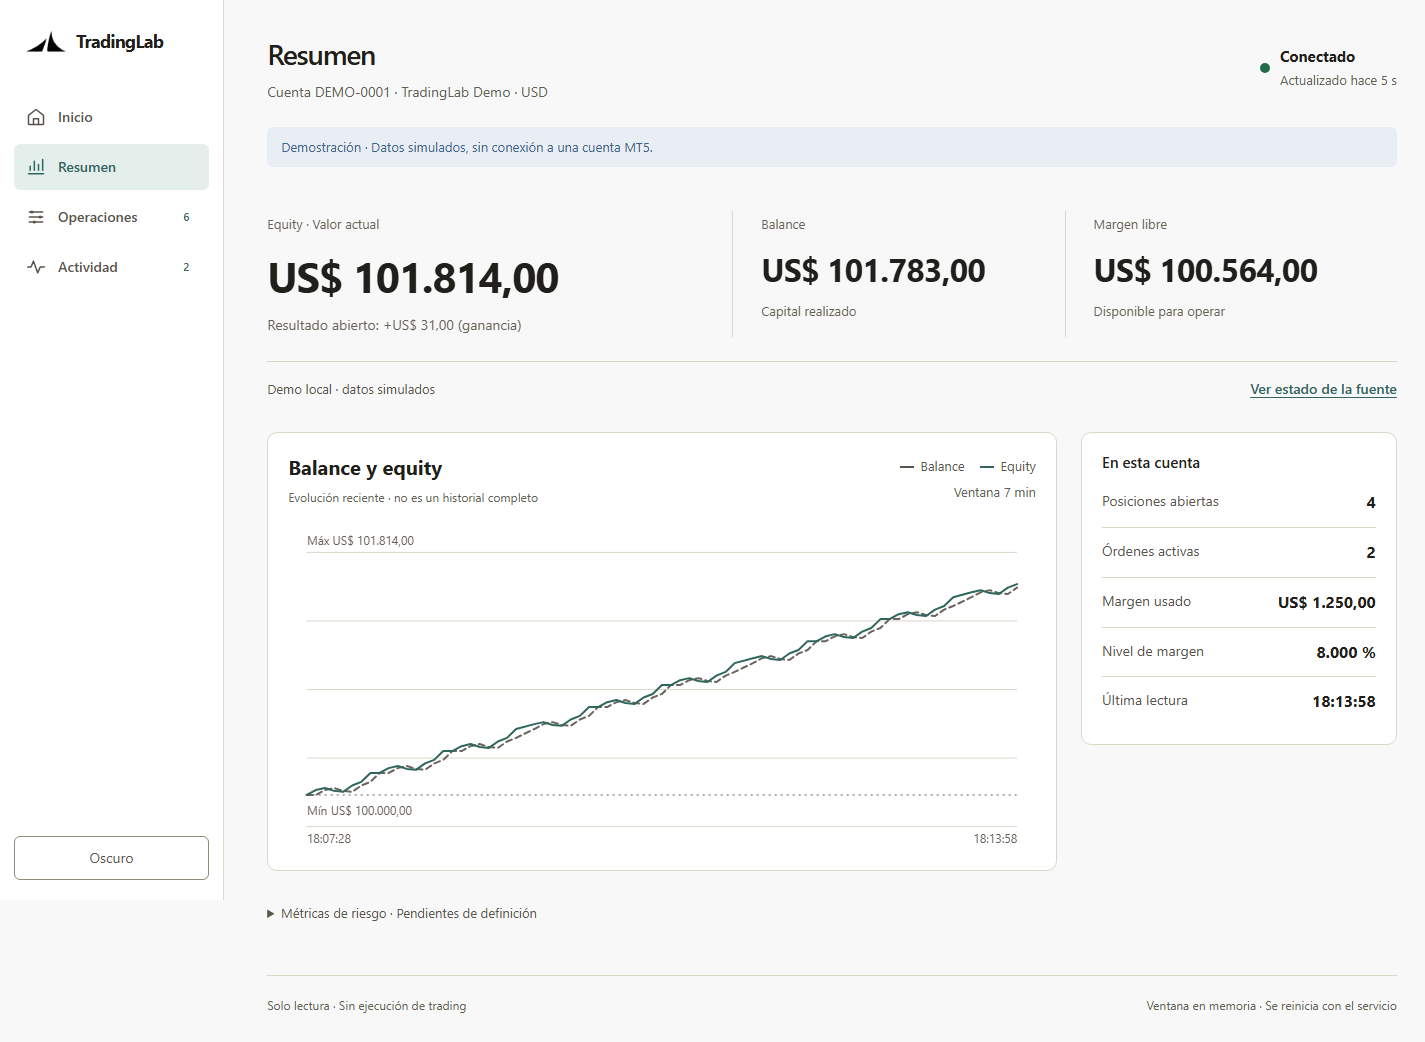
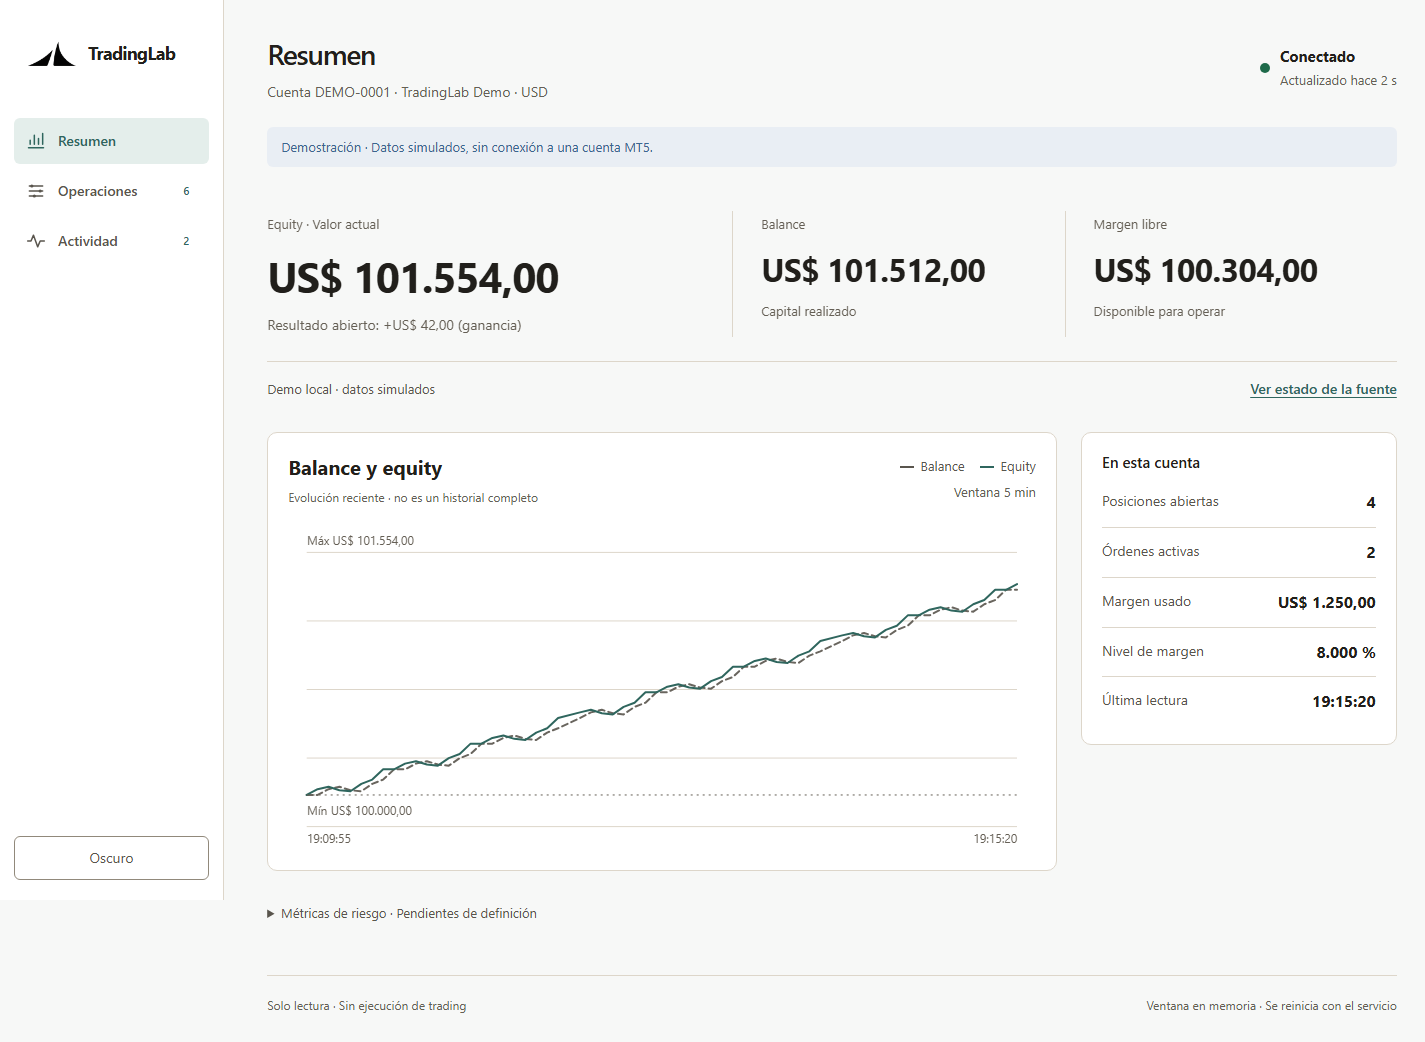
fix: finalize public and dashboard brand treatment

diff --git a/src/tradinglab/dashboard/static/styles.css b/src/tradinglab/dashboard/static/styles.css
@@ -26,7 +26,7 @@
   --radius-lg: 10px;
   --font-ui: -apple-system, BlinkMacSystemFont, "Segoe UI", Roboto, "Helvetica Neue", Arial, sans-serif;
   --font-mono: ui-monospace, SFMono-Regular, Menlo, Consolas, monospace;
-  --brand-logo: url("/assets/logo_black.png");
+  --brand-logo: url("/assets/tradinglab-apple-touch-icon-black.png");
   font-family: var(--font-ui);
   background: var(--canvas);
   color: var(--ink);
@@ -34,9 +34,9 @@
 }
 
 :root[data-theme="light"] { color-scheme: light; }
-:root[data-theme="dark"] { color-scheme: dark; --brand-logo: url("/assets/logo_white.png"); }
+:root[data-theme="dark"] { color-scheme: dark; --brand-logo: url("/assets/tradinglab-apple-touch-icon-white.png"); }
 @media (prefers-color-scheme: dark) {
-  :root:not([data-theme]) { --brand-logo: url("/assets/logo_white.png"); }
+  :root:not([data-theme]) { --brand-logo: url("/assets/tradinglab-apple-touch-icon-white.png"); }
 }
 
 * { box-sizing: border-box; }
@@ -90,7 +90,7 @@ button, select { min-height: 44px; }
 .brand { display: flex; align-items: center; gap: 10px; text-decoration: none; color: var(--ink); white-space: nowrap; }
 .site-nav .brand { padding: 0 12px; }
 .brand strong { font-size: 1.125rem; letter-spacing: -0.04em; }
-.brand-mark { display: inline-block; flex: none; width: 40px; height: 25px; background: var(--brand-logo) center / contain no-repeat; }
+.brand-mark { display: inline-block; flex: none; width: 52px; height: 52px; background: var(--brand-logo) center / contain no-repeat; }
 .site-nav-links { display: flex; flex: 1; flex-direction: column; align-items: stretch; gap: 4px; }
 .site-nav-links a, .view-tab { display: flex; align-items: center; gap: 12px; width: 100%; min-height: 46px; padding: 10px 12px; border: 0; border-radius: var(--radius-md); color: var(--ink-2); text-decoration: none; text-align: left; font: inherit; font-size: 0.875rem; font-weight: 500; background: transparent; cursor: pointer; }
 .site-nav-links a:hover, .view-tab:hover { color: var(--ink); background: var(--raised); }
@@ -398,7 +398,7 @@ summary { cursor: pointer; min-height: 44px; padding: 12px 0; }
   .shell > main { padding: 22px 16px 0; }
   .site-nav { margin: 0; padding: 12px 16px; }
   .brand strong { font-size: 1.0625rem; }
-  .brand-mark { width: 35px; height: 22px; }
+  .brand-mark { width: 44px; height: 44px; }
   .site-nav-links { gap: 0; padding-inline: 4px; }
   .site-nav-links > a, .site-nav-links .view-tab { padding: 4px 0; font-size: 0.75rem; }
   .site-nav .theme-toggle { inset: 14px 16px auto auto; min-width: 62px; }

diff --git a/src/tradinglab/dashboard/static/theme.js b/src/tradinglab/dashboard/static/theme.js
@@ -26,38 +26,20 @@
     return window.matchMedia("(prefers-color-scheme: dark)").matches ? "dark" : "light";
   }
 
-  // El logo horizontal completo queda diminuto a 16 px. Para la pestaña se usa
-  // su motivo central, recortado simétricamente y sin deformar el PNG original.
-  function prepareFavicon(icon) {
-    if (icon.dataset.squareReady || icon.dataset.squareLoading) return;
-    icon.dataset.squareLoading = "true";
-    const source = new Image();
-    source.onload = () => {
-      const canvas = document.createElement("canvas");
-      canvas.width = 64;
-      canvas.height = 64;
-      const sourceWidth = source.naturalWidth * 0.7;
-      const sourceX = (source.naturalWidth - sourceWidth) / 2;
-      const width = 60;
-      const height = width * source.naturalHeight / sourceWidth;
-      canvas.getContext("2d").drawImage(
-        source, sourceX, 0, sourceWidth, source.naturalHeight,
-        (64 - width) / 2, (64 - height) / 2, width, height,
-      );
-      icon.href = canvas.toDataURL("image/png");
-      icon.dataset.squareReady = "true";
-      delete icon.dataset.squareLoading;
-    };
-    source.onerror = () => { delete icon.dataset.squareLoading; };
-    source.src = icon.href;
-  }
-
   function updateButtons() {
     const current = effectiveTheme();
-    document.querySelectorAll("[data-theme-icon]").forEach((icon) => {
-      icon.media = icon.dataset.themeIcon === current ? "all" : "not all";
-      prepareFavicon(icon);
-    });
+    const icon = document.querySelector("[data-theme-icon]");
+    if (icon) {
+      // La pestaña pertenece al navegador: su contraste no depende del tema de la app.
+      const browserDark = window.matchMedia("(prefers-color-scheme: dark)").matches;
+      const iconTheme = browserDark ? "dark" : "light";
+      if (icon.dataset.themeIcon !== iconTheme) {
+        icon.href = browserDark
+          ? "/assets/favicon-white.ico?v=fitted-1"
+          : "/assets/favicon-black.ico?v=fitted-1";
+        icon.dataset.themeIcon = iconTheme;
+      }
+    }
     document.querySelectorAll("[data-theme-toggle]").forEach((button) => {
       button.hidden = false;
       button.textContent = current === "dark" ? "Claro" : "Oscuro";

diff --git a/src/tradinglab/dashboard/static/dashboard.html b/src/tradinglab/dashboard/static/dashboard.html
@@ -5,8 +5,7 @@
     <meta name="viewport" content="width=device-width, initial-scale=1">
     <meta name="color-scheme" content="dark light">
     <title>Panel de la cuenta · TradingLab</title>
-    <link rel="icon" type="image/png" href="/assets/logo_black.png" media="(prefers-color-scheme: light)" data-theme-icon="light">
-    <link rel="icon" type="image/png" href="/assets/logo_white.png" media="(prefers-color-scheme: dark)" data-theme-icon="dark">
+    <link rel="icon" type="image/x-icon" href="/assets/favicon-black.ico?v=fitted-1" data-theme-icon="light">
     <script src="/assets/theme.js"></script>
     <link rel="stylesheet" href="/assets/styles.css">
     <script src="/assets/app.js" defer></script>

diff --git a/src/tradinglab/dashboard/static/index.html b/src/tradinglab/dashboard/static/index.html
@@ -5,8 +5,7 @@
     <meta name="viewport" content="width=device-width, initial-scale=1">
     <meta name="color-scheme" content="dark light">
     <title>TradingLab · Inicio</title>
-    <link rel="icon" type="image/png" href="/assets/logo_black.png" media="(prefers-color-scheme: light)" data-theme-icon="light">
-    <link rel="icon" type="image/png" href="/assets/logo_white.png" media="(prefers-color-scheme: dark)" data-theme-icon="dark">
+    <link rel="icon" type="image/x-icon" href="/assets/favicon-black.ico?v=fitted-1" data-theme-icon="light">
     <script src="/assets/theme.js"></script>
     <link rel="stylesheet" href="/assets/styles.css">
   </head>

diff --git a/src/tradinglab/dashboard/web.py b/src/tradinglab/dashboard/web.py
@@ -23,6 +23,19 @@ STATIC_ROUTES = {
     "/assets/nav-icons.svg": ("nav-icons.svg", "image/svg+xml"),
     "/assets/logo_black.png": ("logo_black.png", "image/png"),
     "/assets/logo_white.png": ("logo_white.png", "image/png"),
+    "/assets/favicon-black.ico": ("favicon-black.ico", "image/x-icon"),
+    "/assets/favicon-white.ico": ("favicon-white.ico", "image/x-icon"),
+    "/favicon.ico": ("favicon-black.ico", "image/x-icon"),
+    "/assets/tradinglab-favicon-black-32.png": ("tradinglab-favicon-black-32.png", "image/png"),
+    "/assets/tradinglab-favicon-white-32.png": ("tradinglab-favicon-white-32.png", "image/png"),
+    "/assets/tradinglab-apple-touch-icon-black.png": (
+        "tradinglab-apple-touch-icon-black.png",
+        "image/png",
+    ),
+    "/assets/tradinglab-apple-touch-icon-white.png": (
+        "tradinglab-apple-touch-icon-white.png",
+        "image/png",
+    ),
 }
 
 _STATIC_CACHE: dict[str, tuple[int, int, bytes, str]] = {}

diff --git a/tests/unit/test_live_dashboard.py b/tests/unit/test_live_dashboard.py
@@ -359,6 +359,12 @@ class LiveDashboardTest(unittest.TestCase):
             for asset, content_type in (
                 ("logo_black.png", "image/png"),
                 ("logo_white.png", "image/png"),
+                ("favicon-black.ico", "image/x-icon"),
+                ("favicon-white.ico", "image/x-icon"),
+                ("tradinglab-favicon-black-32.png", "image/png"),
+                ("tradinglab-favicon-white-32.png", "image/png"),
+                ("tradinglab-apple-touch-icon-black.png", "image/png"),
+                ("tradinglab-apple-touch-icon-white.png", "image/png"),
                 ("nav-icons.svg", "image/svg+xml"),
             ):
                 with urllib.request.urlopen(f"{base_url}/assets/{asset}", timeout=2) as response:

diff --git a/docs/development/adaptive-navigation-visual-analysis.md b/docs/development/adaptive-navigation-visual-analysis.md
@@ -10,7 +10,7 @@ Las referencias provistas son [escritorio](../idea-visual-tabs.png) y
 jerarquía, no como definición de colores, métricas o funciones. La paleta clara y
 oscura suave del piloto se conserva.
 
-Vistas del prototipo en modo demo: [escritorio claro](../adaptive-navigation-desktop.png)
+Vistas del prototipo en modo demo: [portada](../adaptive-navigation-home.png), [escritorio claro](../adaptive-navigation-desktop.png)
 y [móvil oscuro](../adaptive-navigation-mobile.png). Son capturas de ejemplo;
 los importes simulados cambian con las lecturas.
 
@@ -32,9 +32,17 @@ es una página de presentación con encabezado propio y una entrada al panel.
 
 Los logos provistos en `docs/logo_black.png` y `docs/logo_white.png` se copiaron
 sin alterar a `src/tradinglab/dashboard/static/` para servirlos localmente. Los
-originales del usuario se conservaron. Para el favicon, el navegador dibuja
-un recorte centrado del logo horizontal dentro de un lienzo cuadrado
-transparente: el motivo tiene mejor presencia a 16 px sin estirar los PNG.
+originales del usuario se conservaron. Para la marca visible se usan las variantes
+cuadradas de 180 px y para la pestaña copias ajustadas de los `.ico` provistos.
+Se eliminó únicamente el margen transparente de su fotograma de 256 px y se
+regeneraron sus seis tamaños con escala uniforme y centrado en píxeles. Los
+originales de `docs/` no se modifican; se conserva la marca completa.
+El navegador elige entre sus seis tamaños
+de 16 a 256 px. El color del favicon sigue `prefers-color-scheme`, independientemente
+del tema manual de la web, para conservar contraste en la pestaña del navegador.
+En 16 px el dibujo ajustado ocupa 16 × 8 px, centrado verticalmente: su forma
+horizontal limita la altura que puede ocupar conservando la marca completa. Los PNG de 32 px quedan
+disponibles como alternativa.
 El nombre sigue siendo texto real; el
 gráfico decorativo queda oculto al lector de pantalla. Las vistas del panel
 mantienen sus roles de tab y el título principal cambia con la vista activa.
